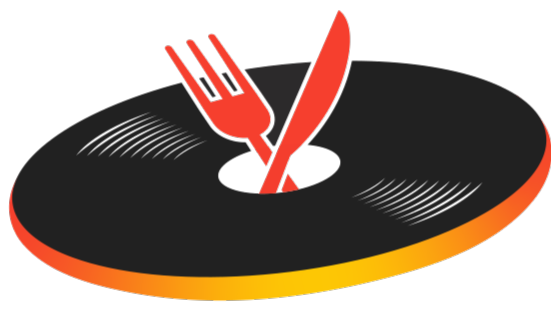
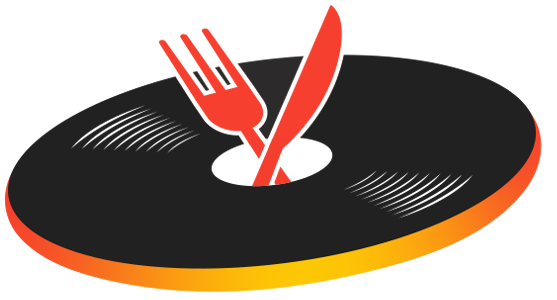
Topo: nova escrita (v2) menor; disco maior, mais a esquerda e alinhado com 'fogo baixo'

diff --git a/estudio.html b/estudio.html
@@ -36,7 +36,7 @@ img{max-width:100%;display:block}
 header{position:sticky;top:0;z-index:50;background:rgba(13,12,9,.92);backdrop-filter:blur(6px);border-bottom:3px solid transparent;border-image:var(--fogo) 1}
 .nav{display:flex;align-items:center;padding:16px 64px;gap:28px}
 .logo{display:flex;align-items:center;text-decoration:none;flex:1}
-.logo img{height:54px;width:auto}
+.logo img{height:46px;width:auto}
 .nav ul{display:flex;gap:0;list-style:none;flex-wrap:wrap;align-items:center}
 .nav ul li:not(:first-child){border-left:1px solid var(--borda)}
 .nav ul a{text-decoration:none;font-family:'Space Mono',monospace;font-size:.95rem;text-transform:uppercase;letter-spacing:.08em;color:var(--creme);padding:8px 12px;border:1px solid transparent;transition:all .15s}
@@ -47,7 +47,7 @@ header{position:sticky;top:0;z-index:50;background:rgba(13,12,9,.92);backdrop-fi
 .nav-conta #link-conta:hover{background:var(--fogo);color:#0D0C09;border-color:transparent;font-weight:700}
 .nav-sair{cursor:pointer;font-family:'Space Mono',monospace;font-size:.68rem;text-transform:uppercase;letter-spacing:.06em;color:var(--creme);background:none;border:1px solid var(--borda);padding:6px 10px;transition:all .15s}
 .nav-sair:hover{border-color:var(--pimenta);color:var(--pimenta)}
-@media(max-width:560px){.logo img{height:40px}}
+@media(max-width:560px){.logo img{height:36px}}
 @media(max-width:700px){
   .nav{flex-wrap:wrap;justify-content:center;padding:10px 12px 4px;gap:2px}
   .logo{flex:0 0 auto;margin-left:0}
@@ -102,7 +102,7 @@ h1.fogo-titulo{font-size:clamp(2.1rem,6vw,3.4rem);margin-bottom:16px;text-align:
 
 <header>
   <nav class="nav" aria-label="Menu principal">
-    <a class="logo" href="index.html"><img src="logo-texto.png?v=1" alt="Cozinha 48"></a>
+    <a class="logo" href="index.html"><img src="logo-texto.png?v=2" alt="Cozinha 48"></a>
     <ul>
       <li><a href="index.html#quem-somos">Quem Somos</a></li>
       <li><a href="index.html#artistas">Artistas</a></li>

diff --git a/mestres-cadastros.html b/mestres-cadastros.html
@@ -37,7 +37,7 @@ img{max-width:100%;display:block}
 header{position:sticky;top:0;z-index:50;background:rgba(13,12,9,.92);backdrop-filter:blur(6px);border-bottom:3px solid transparent;border-image:var(--fogo) 1}
 .nav{display:flex;align-items:center;padding:16px 64px;gap:28px}
 .logo{display:flex;align-items:center;text-decoration:none;flex:1}
-.logo img{height:54px;width:auto}
+.logo img{height:46px;width:auto}
 .nav ul{display:flex;gap:0;list-style:none;flex-wrap:wrap;align-items:center}
 .nav ul li:not(:first-child){border-left:1px solid var(--borda)}
 .nav ul a{text-decoration:none;font-family:'Space Mono',monospace;font-size:.95rem;text-transform:uppercase;letter-spacing:.08em;color:var(--creme);padding:8px 12px;border:1px solid transparent;transition:all .15s}
@@ -48,7 +48,7 @@ header{position:sticky;top:0;z-index:50;background:rgba(13,12,9,.92);backdrop-fi
 .nav-conta #link-conta:hover{background:var(--fogo);color:#0D0C09;border-color:transparent;font-weight:700}
 .nav-sair{cursor:pointer;font-family:'Space Mono',monospace;font-size:.68rem;text-transform:uppercase;letter-spacing:.06em;color:var(--creme);background:none;border:1px solid var(--borda);padding:6px 10px;transition:all .15s}
 .nav-sair:hover{border-color:var(--pimenta);color:var(--pimenta)}
-@media(max-width:560px){.logo img{height:40px}}
+@media(max-width:560px){.logo img{height:36px}}
 @media(max-width:700px){
   .nav{flex-wrap:wrap;justify-content:center;padding:10px 12px 4px;gap:2px}
   .logo{flex:0 0 auto;margin-left:0}
@@ -97,7 +97,7 @@ h1.fogo-titulo{font-size:clamp(2.2rem,7vw,3.6rem);margin-bottom:10px}
 
 <header>
   <nav class="nav" aria-label="Menu principal">
-    <a class="logo" href="index.html"><img src="logo-texto.png?v=1" alt="Cozinha 48"></a>
+    <a class="logo" href="index.html"><img src="logo-texto.png?v=2" alt="Cozinha 48"></a>
     <ul>
       <li><a href="index.html#quem-somos">Quem Somos</a></li>
       <li><a href="index.html#artistas">Artistas</a></li>

diff --git a/mestres-promos.html b/mestres-promos.html
@@ -37,7 +37,7 @@ img{max-width:100%;display:block}
 header{position:sticky;top:0;z-index:50;background:rgba(13,12,9,.92);backdrop-filter:blur(6px);border-bottom:3px solid transparent;border-image:var(--fogo) 1}
 .nav{display:flex;align-items:center;padding:16px 64px;gap:28px}
 .logo{display:flex;align-items:center;text-decoration:none;flex:1}
-.logo img{height:54px;width:auto}
+.logo img{height:46px;width:auto}
 .nav ul{display:flex;gap:0;list-style:none;flex-wrap:wrap;align-items:center}
 .nav ul li:not(:first-child){border-left:1px solid var(--borda)}
 .nav ul a{text-decoration:none;font-family:'Space Mono',monospace;font-size:.95rem;text-transform:uppercase;letter-spacing:.08em;color:var(--creme);padding:8px 12px;border:1px solid transparent;transition:all .15s}
@@ -48,7 +48,7 @@ header{position:sticky;top:0;z-index:50;background:rgba(13,12,9,.92);backdrop-fi
 .nav-conta #link-conta:hover{background:var(--fogo);color:#0D0C09;border-color:transparent;font-weight:700}
 .nav-sair{cursor:pointer;font-family:'Space Mono',monospace;font-size:.68rem;text-transform:uppercase;letter-spacing:.06em;color:var(--creme);background:none;border:1px solid var(--borda);padding:6px 10px;transition:all .15s}
 .nav-sair:hover{border-color:var(--pimenta);color:var(--pimenta)}
-@media(max-width:560px){.logo img{height:40px}}
+@media(max-width:560px){.logo img{height:36px}}
 @media(max-width:700px){
   .nav{flex-wrap:wrap;justify-content:center;padding:10px 12px 4px;gap:2px}
   .logo{flex:0 0 auto;margin-left:0}
@@ -97,7 +97,7 @@ h1.fogo-titulo{font-size:clamp(2.2rem,7vw,3.6rem);margin-bottom:10px}
 
 <header>
   <nav class="nav" aria-label="Menu principal">
-    <a class="logo" href="index.html"><img src="logo-texto.png?v=1" alt="Cozinha 48"></a>
+    <a class="logo" href="index.html"><img src="logo-texto.png?v=2" alt="Cozinha 48"></a>
     <ul>
       <li><a href="index.html#quem-somos">Quem Somos</a></li>
       <li><a href="index.html#artistas">Artistas</a></li>

diff --git a/promo.html b/promo.html
@@ -36,7 +36,7 @@ img{max-width:100%;display:block}
 header{position:sticky;top:0;z-index:50;background:rgba(13,12,9,.92);backdrop-filter:blur(6px);border-bottom:3px solid transparent;border-image:var(--fogo) 1}
 .nav{display:flex;align-items:center;padding:16px 64px;gap:28px}
 .logo{display:flex;align-items:center;text-decoration:none;flex:1}
-.logo img{height:54px;width:auto}
+.logo img{height:46px;width:auto}
 .nav ul{display:flex;gap:0;list-style:none;flex-wrap:wrap;align-items:center}
 .nav ul li:not(:first-child){border-left:1px solid var(--borda)}
 .nav ul a{text-decoration:none;font-family:'Space Mono',monospace;font-size:.95rem;text-transform:uppercase;letter-spacing:.08em;color:var(--creme);padding:8px 12px;border:1px solid transparent;transition:all .15s}
@@ -47,7 +47,7 @@ header{position:sticky;top:0;z-index:50;background:rgba(13,12,9,.92);backdrop-fi
 .nav-conta #link-conta:hover{background:var(--fogo);color:#0D0C09;border-color:transparent;font-weight:700}
 .nav-sair{cursor:pointer;font-family:'Space Mono',monospace;font-size:.68rem;text-transform:uppercase;letter-spacing:.06em;color:var(--creme);background:none;border:1px solid var(--borda);padding:6px 10px;transition:all .15s}
 .nav-sair:hover{border-color:var(--pimenta);color:var(--pimenta)}
-@media(max-width:560px){.logo img{height:40px}}
+@media(max-width:560px){.logo img{height:36px}}
 @media(max-width:700px){
   .nav{flex-wrap:wrap;justify-content:center;padding:10px 12px 4px;gap:2px}
   .logo{flex:0 0 auto;margin-left:0}
@@ -105,7 +105,7 @@ input:focus{border-color:var(--mostarda);outline:none}
 
 <header>
   <nav class="nav" aria-label="Menu principal">
-    <a class="logo" href="index.html"><img src="logo-texto.png?v=1" alt="Cozinha 48"></a>
+    <a class="logo" href="index.html"><img src="logo-texto.png?v=2" alt="Cozinha 48"></a>
     <ul>
       <li><a href="index.html#quem-somos">Quem Somos</a></li>
       <li><a href="index.html#artistas">Artistas</a></li>

diff --git a/conta.html b/conta.html
@@ -36,7 +36,7 @@ img{max-width:100%;display:block}
 header{position:sticky;top:0;z-index:50;background:rgba(13,12,9,.92);backdrop-filter:blur(6px);border-bottom:3px solid transparent;border-image:var(--fogo) 1}
 .nav{display:flex;align-items:center;padding:16px 64px;gap:28px}
 .logo{display:flex;align-items:center;text-decoration:none;flex:1}
-.logo img{height:54px;width:auto}
+.logo img{height:46px;width:auto}
 .nav ul{display:flex;gap:0;list-style:none;flex-wrap:wrap;align-items:center}
 .nav ul li:not(:first-child){border-left:1px solid var(--borda)}
 .nav ul a{text-decoration:none;font-family:'Space Mono',monospace;font-size:.95rem;text-transform:uppercase;letter-spacing:.08em;color:var(--creme);padding:8px 12px;border:1px solid transparent;transition:all .15s}
@@ -47,7 +47,7 @@ header{position:sticky;top:0;z-index:50;background:rgba(13,12,9,.92);backdrop-fi
 .nav-conta #link-conta:hover{background:var(--fogo);color:#0D0C09;border-color:transparent;font-weight:700}
 .nav-sair{cursor:pointer;font-family:'Space Mono',monospace;font-size:.68rem;text-transform:uppercase;letter-spacing:.06em;color:var(--creme);background:none;border:1px solid var(--borda);padding:6px 10px;transition:all .15s}
 .nav-sair:hover{border-color:var(--pimenta);color:var(--pimenta)}
-@media(max-width:560px){.logo img{height:40px}}
+@media(max-width:560px){.logo img{height:36px}}
 @media(max-width:700px){
   .nav{flex-wrap:wrap;justify-content:center;padding:10px 12px 4px;gap:2px}
   .logo{flex:0 0 auto;margin-left:0}
@@ -125,7 +125,7 @@ input:disabled{color:var(--inox);cursor:not-allowed}
 
 <header>
   <nav class="nav" aria-label="Menu principal">
-    <a class="logo" href="index.html"><img src="logo-texto.png?v=1" alt="Cozinha 48"></a>
+    <a class="logo" href="index.html"><img src="logo-texto.png?v=2" alt="Cozinha 48"></a>
     <ul>
       <li><a href="index.html#quem-somos">Quem Somos</a></li>
       <li><a href="index.html#artistas">Artistas</a></li>

diff --git a/participar.html b/participar.html
@@ -36,7 +36,7 @@ img{max-width:100%;display:block}
 header{position:sticky;top:0;z-index:50;background:rgba(13,12,9,.92);backdrop-filter:blur(6px);border-bottom:3px solid transparent;border-image:var(--fogo) 1}
 .nav{display:flex;align-items:center;padding:16px 64px;gap:28px}
 .logo{display:flex;align-items:center;text-decoration:none;flex:1}
-.logo img{height:54px;width:auto}
+.logo img{height:46px;width:auto}
 .nav ul{display:flex;gap:0;list-style:none;flex-wrap:wrap;align-items:center}
 .nav ul li:not(:first-child){border-left:1px solid var(--borda)}
 .nav ul a{text-decoration:none;font-family:'Space Mono',monospace;font-size:.95rem;text-transform:uppercase;letter-spacing:.08em;color:var(--creme);padding:8px 12px;border:1px solid transparent;transition:all .15s}
@@ -47,7 +47,7 @@ header{position:sticky;top:0;z-index:50;background:rgba(13,12,9,.92);backdrop-fi
 .nav-conta #link-conta:hover{background:var(--fogo);color:#0D0C09;border-color:transparent;font-weight:700}
 .nav-sair{cursor:pointer;font-family:'Space Mono',monospace;font-size:.68rem;text-transform:uppercase;letter-spacing:.06em;color:var(--creme);background:none;border:1px solid var(--borda);padding:6px 10px;transition:all .15s}
 .nav-sair:hover{border-color:var(--pimenta);color:var(--pimenta)}
-@media(max-width:560px){.logo img{height:40px}}
+@media(max-width:560px){.logo img{height:36px}}
 @media(max-width:700px){
   .nav{flex-wrap:wrap;justify-content:center;padding:10px 12px 4px;gap:2px}
   .logo{flex:0 0 auto;margin-left:0}
@@ -121,7 +121,7 @@ textarea{min-height:90px;resize:vertical}
 
 <header>
   <nav class="nav" aria-label="Menu principal">
-    <a class="logo" href="index.html"><img src="logo-texto.png?v=1" alt="Cozinha 48"></a>
+    <a class="logo" href="index.html"><img src="logo-texto.png?v=2" alt="Cozinha 48"></a>
     <ul>
       <li><a href="index.html#quem-somos">Quem Somos</a></li>
       <li><a href="index.html#artistas">Artistas</a></li>

diff --git a/index.html b/index.html
@@ -87,8 +87,8 @@ header{
 .nav-social a{color:var(--creme);display:flex;transition:color .15s}
 .nav-social a:hover{color:var(--brasa)}
 .nav-social svg{width:22px;height:22px}
-.logo img{height:54px;width:auto}
-@media(max-width:560px){.logo img{height:40px}}
+.logo img{height:46px;width:auto}
+@media(max-width:560px){.logo img{height:36px}}
 .nav-conta{flex:1;display:flex;align-items:center;justify-content:flex-end;gap:14px;white-space:nowrap}
 .nav-conta #link-conta{font-family:'Space Mono',monospace;font-size:.78rem;text-transform:uppercase;letter-spacing:.06em;text-decoration:none;padding:6px 11px;color:var(--mostarda);border:1px solid var(--mostarda);transition:all .15s}
 .nav-conta #link-conta:hover{background:var(--fogo);color:#0D0C09;border-color:transparent;font-weight:700}
@@ -129,7 +129,7 @@ header{
 .btn-vazio:hover{border-color:var(--mostarda);color:var(--mostarda)}
 
 /* disco sobreposto à direita do texto */
-.selo{position:absolute;right:9%;top:53%;transform:translateY(-50%);width:clamp(280px,35vw,450px);z-index:1}
+.selo{position:absolute;right:14%;top:46%;transform:translateY(-50%);width:clamp(300px,38vw,500px);z-index:1}
 .selo img{width:100%;height:auto;filter:drop-shadow(0 12px 14px rgba(0,0,0,.5))}
 @media(max-width:900px){.selo{display:none}}
 
@@ -415,7 +415,7 @@ section{scroll-margin-top:92px}
 <header id="topo">
   <nav class="nav" aria-label="Menu principal">
     <div class="nav-esq">
-      <a class="logo" href="#topo"><img src="logo-texto.png?v=1" alt="Cozinha 48"></a>
+      <a class="logo" href="#topo"><img src="logo-texto.png?v=2" alt="Cozinha 48"></a>
     </div>
     <ul>
       <li><a href="#quem-somos">Quem Somos</a></li>
